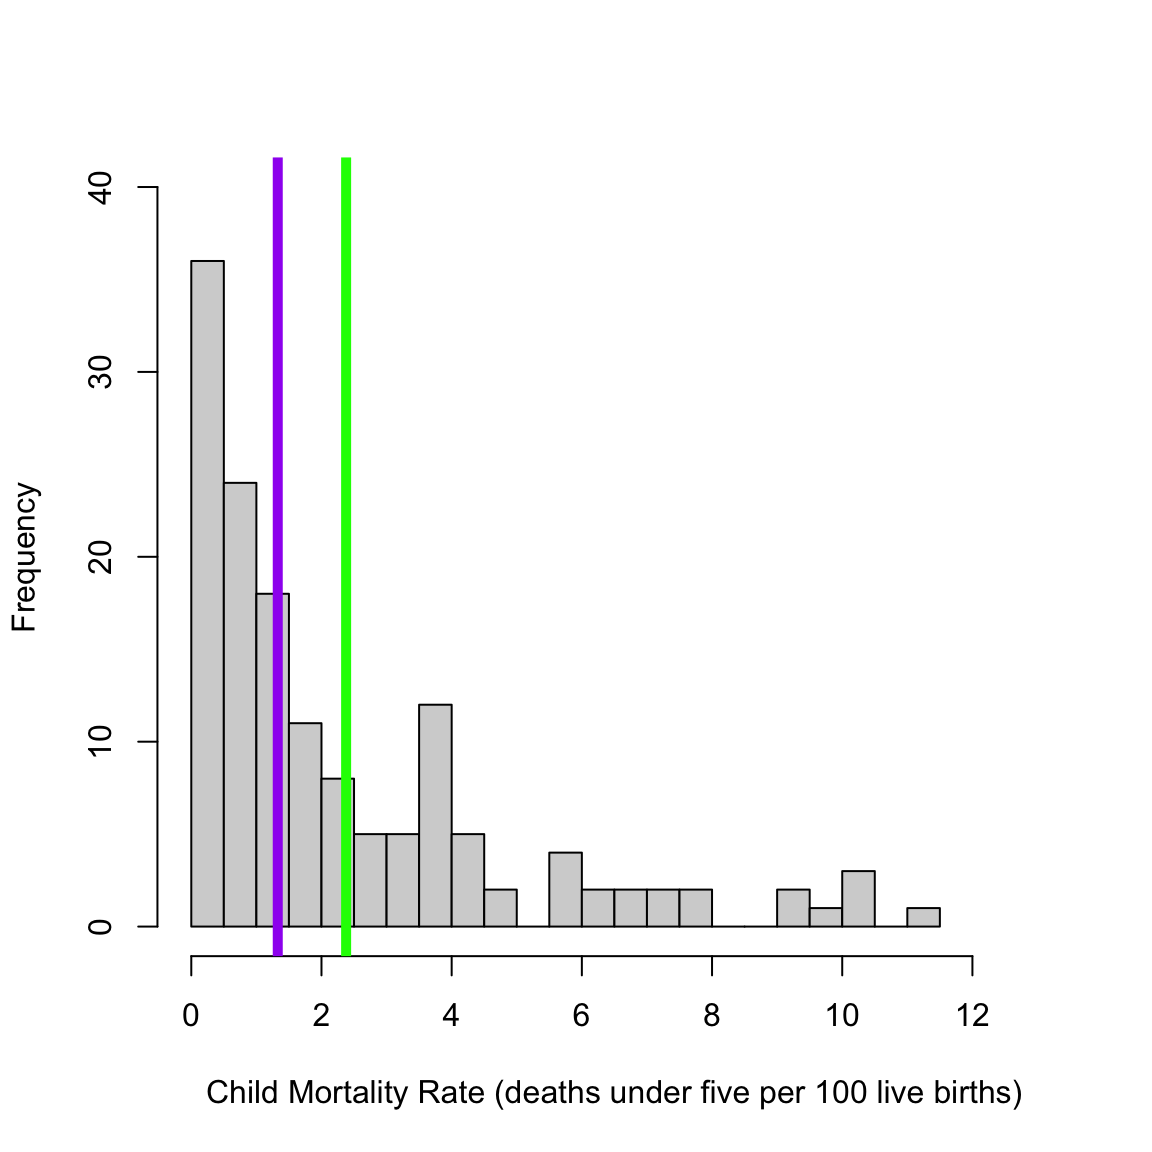
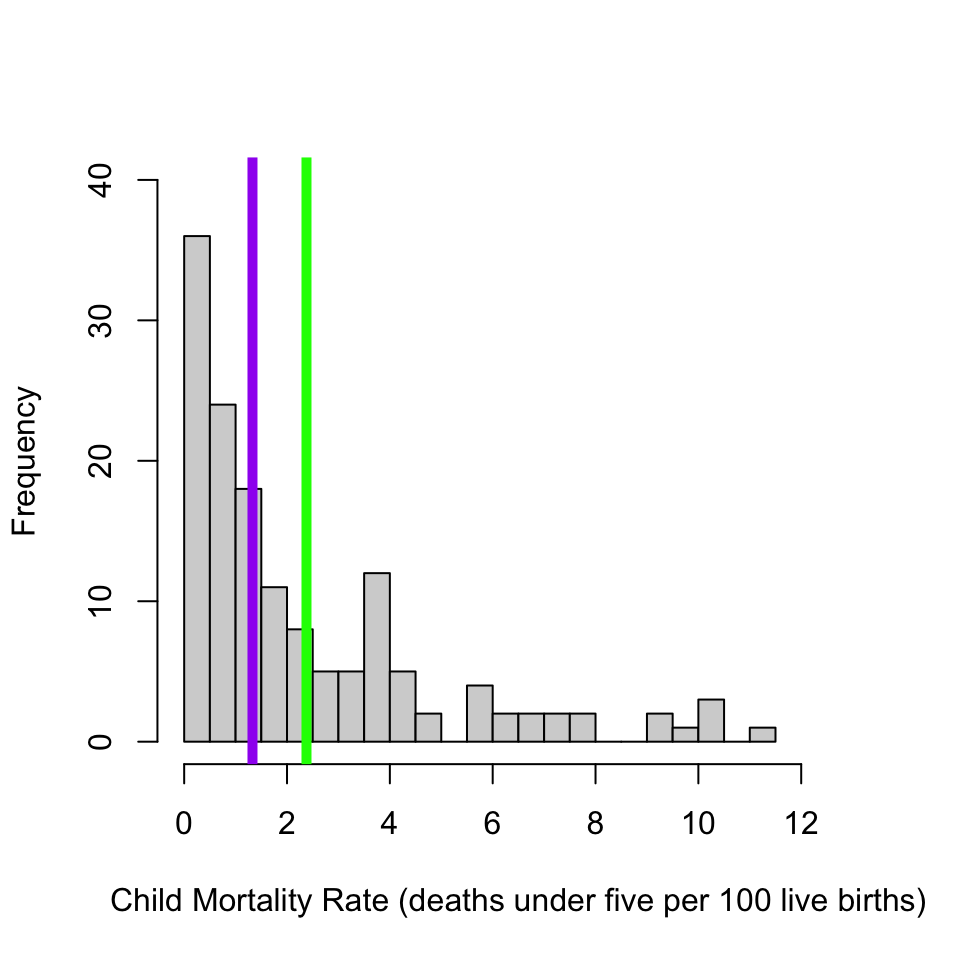
214w6

Changed region(s): [[0.0, 0.125, 0.9688, 0.9688], [0.0625, 0.7812, 0.0938, 0.8125]]

diff --git a/docs/dvcstats/slides/BE1introLM.html b/docs/dvcstats/slides/BE1introLM.html
@@ -200,17 +200,16 @@
 </div>
 
 </section>
-<section id="check-in-practice-brain-exam" class="title-slide slide level2 center">
-<h2><a href="https://docs.google.com/forms/d/e/1FAIpQLSdlow6vZFcpooGbTACiW2HgsEfbVHkSarB2rZwpNvgUF-HyHQ/viewform?usp=header">CHECK-IN : Practice Brain Exam</a></h2>
+<section id="check-in-practice-brain-exam-no-r" class="title-slide slide level2 center">
+<h2><a href="https://docs.google.com/forms/d/e/1FAIpQLSdlow6vZFcpooGbTACiW2HgsEfbVHkSarB2rZwpNvgUF-HyHQ/viewform?usp=header">CHECK-IN : Practice Brain Exam (no R)</a></h2>
 <ul>
-<li><p>tinyurl.com/modelpeople</p></li>
-<li><p>Use the graph to answer the questions (no R required)</p></li>
+<li>tinyurl.com/modelpeople</li>
 </ul>
 <div class="cell" data-layout-align="center">
 <div class="cell-output-display">
 <div class="quarto-figure quarto-figure-center">
 <figure>
-<p><img data-src="BE1introLM_files/figure-revealjs/unnamed-chunk-1-1.png" class="quarto-figure quarto-figure-center" width="576"></p>
+<p><img data-src="BE1introLM_files/figure-revealjs/unnamed-chunk-1-1.png" class="quarto-figure quarto-figure-center" width="480"></p>
 </figure>
 </div>
 </div>
@@ -344,8 +343,8 @@
 </tbody>
 </table>
 </section>
-<section id="recap-making-predictions-with-linear-models" class="slide level3 smaller">
-<h3>RECAP : Making Predictions with Linear Models</h3>
+<section id="recap-predictions-with-linear-models" class="slide level3 smaller">
+<h3>RECAP : Predictions with Linear Models</h3>
 <ul>
 <li><p>DV ~ IV1 + error</p>
 <ul>
@@ -446,9 +445,9 @@
 </div>
 </div></div>
 </section></section>
-<section id="the-linear-model-error-in-our-predictions" class="title-slide slide level2 center">
-<h2>The Linear Model : Error in Our Predictions</h2>
-<p>Which model has dots that are closer to the line??? (Mean of Satisfaction or Life Expectancy)</p>
+<section id="the-linear-model-error" class="title-slide slide level2 smaller center">
+<h2>The Linear Model : Error</h2>
+<p>Which model has dots that are closer to the line?</p>
 <div class="cell" data-layout-align="center">
 <div class="cell-output-display">
 <div class="quarto-figure quarto-figure-center">
@@ -460,8 +459,8 @@
 </div>
 </section>
 
-<section id="the-linear-model-quantifying-error" class="title-slide slide level2 smaller center">
-<h2>The Linear Model : Quantifying Error</h2>
+<section id="the-linear-model-counting-error" class="title-slide slide level2 smaller center">
+<h2>The Linear Model : Counting Error</h2>
 <div class="panel-tabset">
 <ul id="tabset-2" class="panel-tabset-tabby"><li><a data-tabby-default="" href="#tabset-2-1">Which model has more error?</a></li><li><a href="#tabset-2-2">How big is the difference in error?</a></li><li><a href="#tabset-2-3">Is this a Big or Small Difference?</a></li></ul>
 <div class="tab-content">
